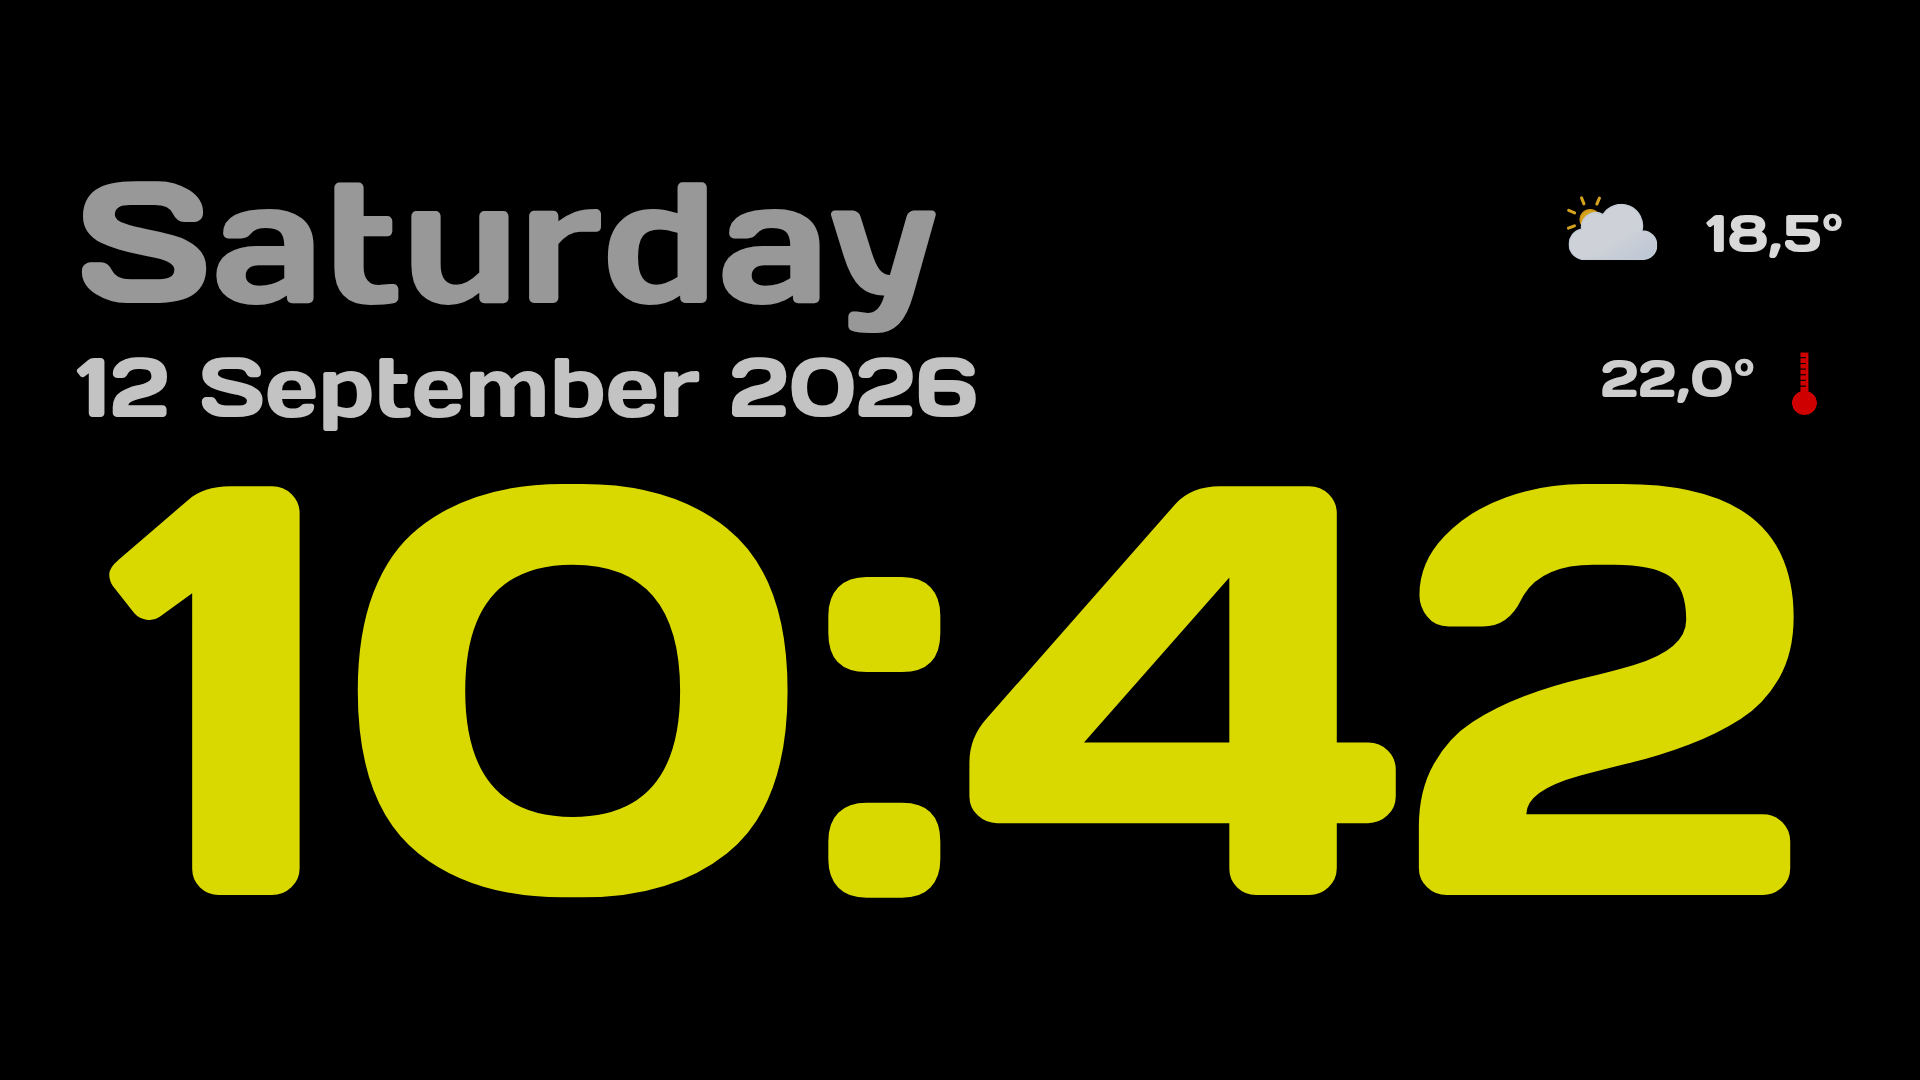
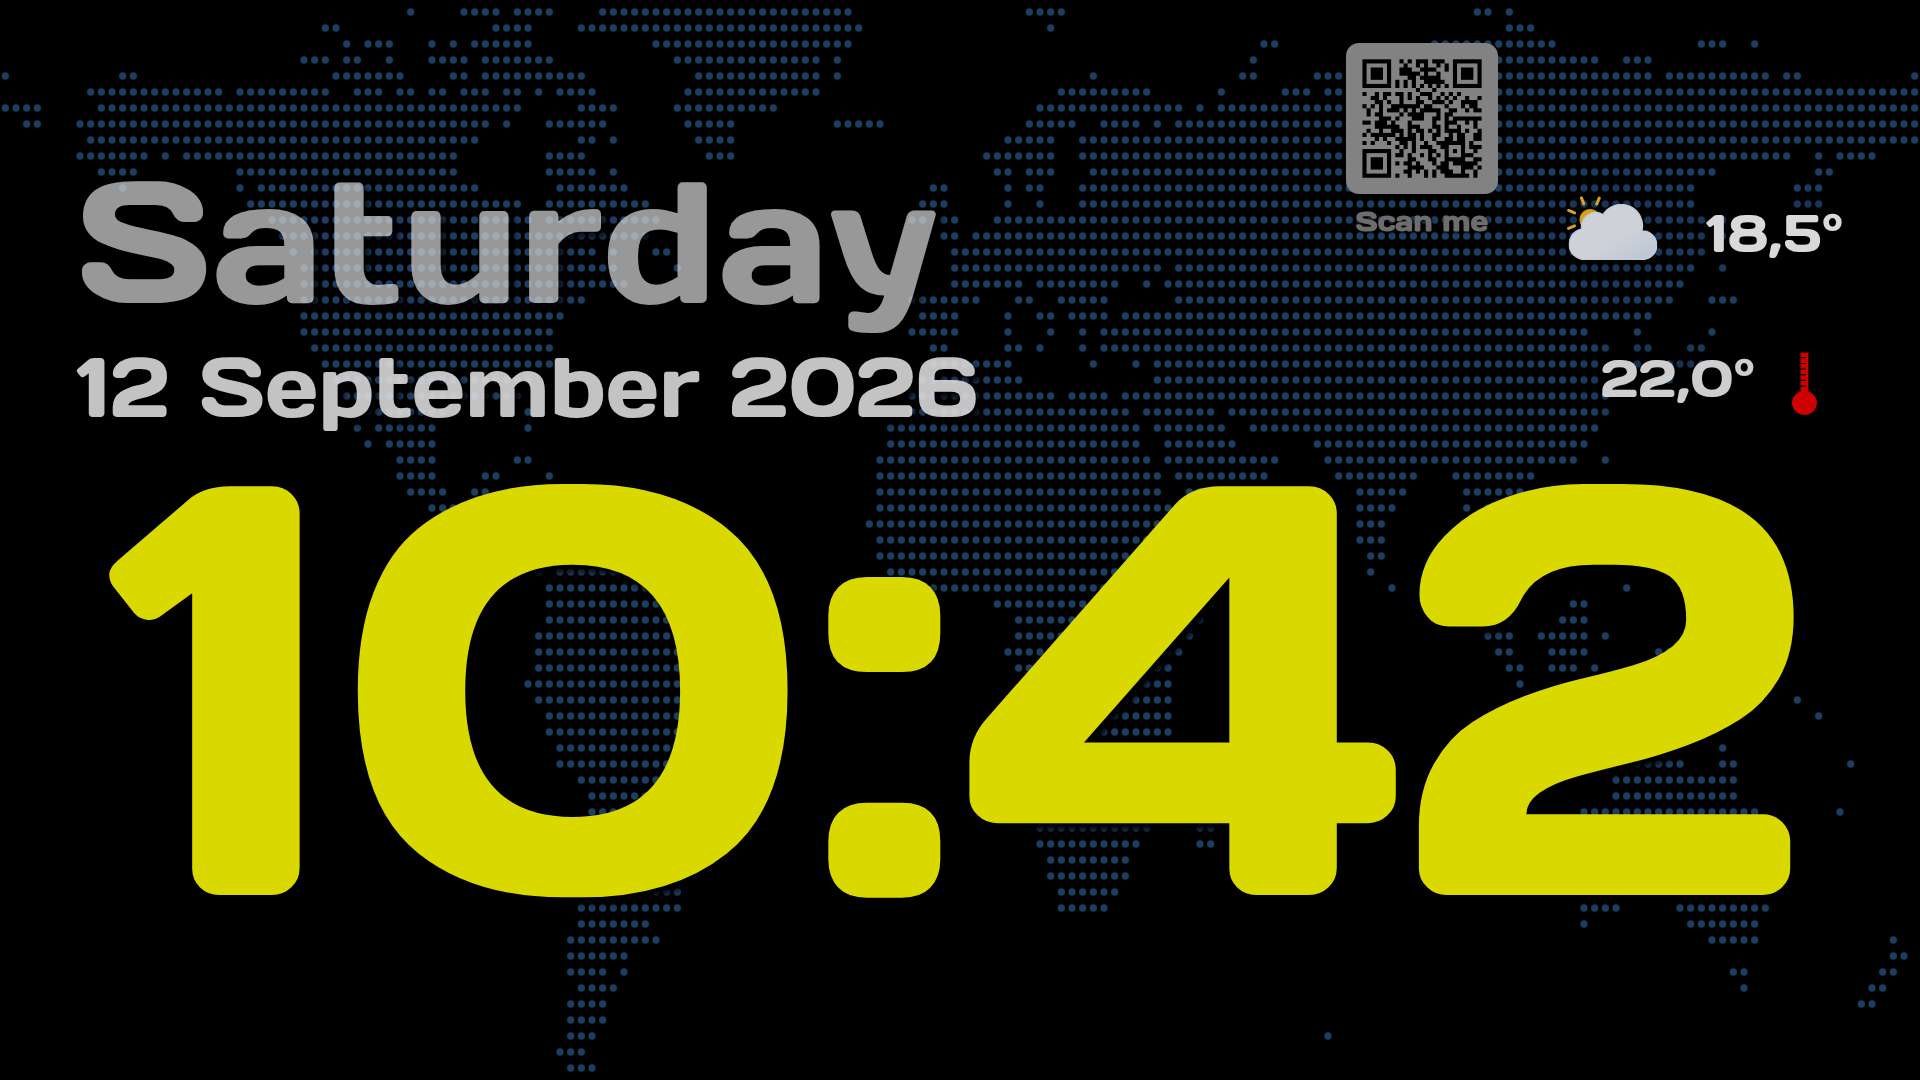
Mappa del mondo a puntini per l'orizzontale, QR di esempio, README e note 1.0.0

diff --git a/tablet-orologio-card.js b/tablet-orologio-card.js
@@ -20,6 +20,8 @@ const DEFAULTS = {
   shift_minutes: 4,   // ogni quanti minuti sposta
   google_font: true,  // carica 'Days One' da Google Fonts se non e' gia' presente (false = nessuna richiesta esterna)
   fullscreen: true,   // copre intestazione e barra laterale di HA
+  background_horizontal: '/local/tablet-orologio/world-dots.svg', // solo orientation horizontal: immagine di sfondo (mappa del mondo); 'none' = usa `background`
+  background_horizontal_opacity: 0.45,
   orientation: 'auto', // 'auto' (come prima: segue lo schermo) | 'vertical' | 'horizontal'
 };
 
@@ -39,6 +41,7 @@ const CSS = `
 .shift { position: absolute; inset: 0; display: grid; transition: transform 6s ease-in-out; will-change: transform;
   grid-template-rows: 1fr auto auto 1.5fr; grid-template-columns: 1fr 1fr; padding: 5cqh 6cqw 5cqh;
   grid-template-areas: "wx wx" "day day" "clock clock" "wifi room"; row-gap: 1cqh; }
+.bgh { position: absolute; inset: 0; pointer-events: none; background: center / cover no-repeat; }
 .dim { position: absolute; inset: 0; pointer-events: none; }
 .wx { grid-area: wx; display: flex; align-items: center; justify-content: center; gap: 4cqw; min-height: 0; }
 .wx img { height: min(28cqh, 56cqw); width: auto; aspect-ratio: 1; filter: drop-shadow(0 0 3cqmin rgba(0,0,0,.6)); }
@@ -73,7 +76,7 @@ const CSS = `
 .o-h .room { margin-top: 0; height: auto; justify-content: flex-end; align-self: center; gap: .6cqw; }
 .o-h .room .v { font-size: min(2.8cqw, 5.5cqh); } .o-h .room img { height: min(4cqw, 8cqh); }
 .o-h .clock { margin-top: 0; align-self: start; line-height: .85; }
-.o-h .wifi { position: absolute; right: 4cqw; bottom: 4cqh; margin-top: 0; }
+.o-h .wifi { position: absolute; right: 22cqw; top: 4cqh; margin-top: 0; }
 .o-h .wifi img { width: min(9cqw, 14cqh); }`;
 
 class TabletOrologioCard extends HTMLElement {
@@ -104,8 +107,10 @@ class TabletOrologioCard extends HTMLElement {
       l.id = 'tablet-orologio-days-one'; l.rel = 'stylesheet'; l.href = 'https://fonts.googleapis.com/css2?family=Days+One&display=swap';
       document.head.appendChild(l);
     }
+    const useMap = c.orientation === 'horizontal' && c.background_horizontal && c.background_horizontal !== 'none';
     this.shadowRoot.innerHTML = `<style>${CSS}</style>
-      <div class="root ${c.fullscreen ? 'fs' : ''} ${c.orientation === 'horizontal' ? 'o-h' : c.orientation === 'vertical' ? 'o-v' : 'o-auto'}" style="${c.background ? `background-image:url('${esc(c.background)}')` : 'background:#000'}">
+      <div class="root ${c.fullscreen ? 'fs' : ''} ${c.orientation === 'horizontal' ? 'o-h' : c.orientation === 'vertical' ? 'o-v' : 'o-auto'}" style="${c.background && !useMap ? `background-image:url('${esc(c.background)}')` : 'background:#000'}">
+        ${useMap ? `<div class="bgh" style="background-image:url('${esc(c.background_horizontal)}'); opacity:${Number(c.background_horizontal_opacity)}"></div>` : ''}
         <div class="shift">
           <div class="wx"><img id="wi" alt=""><div class="out" id="out"></div></div>
           <div class="day"><div class="wd" id="wd"></div><div class="dt" id="dt"></div></div>

diff --git a/README.md b/README.md
@@ -10,6 +10,12 @@ Orologio a schermo intero per tablet a muro (Fully Kiosk Browser o qualsiasi bro
 |---|---|
 | ![Verticale](docs/images/vertical.png) | ![Orizzontale](docs/images/horizontal.png) |
 
+Orizzontale con sfondo nero (`background_horizontal: none`):
+
+![Orizzontale nero](docs/images/horizontal-black.png)
+
+Nelle immagini il QR di esempio apre questo repository.
+
 ## Caratteristiche
 
 - **A schermo intero**: copre intestazione e barra laterale di Home Assistant (`fullscreen: true`).
@@ -30,6 +36,31 @@ Orologio a schermo intero per tablet a muro (Fully Kiosk Browser o qualsiasi bro
 ### Font Days One
 
 La card usa il font **Days One** (licenza SIL Open Font License 1.1, uso e ridistribuzione liberi). Per default viene caricato da Google Fonts alla prima apertura (`google_font: true`). Se non vuoi richieste esterne metti `google_font: false` e installa il font nel tuo tema o come risorsa; senza il font la card usa un carattere di ripiego.
+
+### Sfondo mappa del mondo (orizzontale)
+
+In orizzontale la card mostra per default una mappa del mondo a puntini blu, come nella versione classica. Copia [`assets/world-dots.svg`](assets/world-dots.svg) in `/config/www/tablet-orologio/world-dots.svg` (il percorso predefinito e' `/local/tablet-orologio/world-dots.svg`; se il file manca lo sfondo resta nero). La mappa e' generata da dati geografici liberi, senza copyright.
+
+```yaml
+type: custom:tablet-orologio-card
+orientation: horizontal
+background_horizontal: /local/miosfondi/mappa.png   # un'altra immagine
+background_horizontal_opacity: 0.35                   # quanto e' visibile (0-1)
+```
+
+Con `background_horizontal: none` si usa l'opzione `background` (o nero). Il verticale e `auto` non usano `background_horizontal`.
+
+### QR code (Wi-Fi ospiti, link, contatto)
+
+La card puo' mostrare un'immagine QR a scelta con una didascalia. Gli screenshot usano un QR di esempio che apre questo repository ([`docs/images/qr-demo.png`](docs/images/qr-demo.png)). Per usare il tuo carica un'immagine in `/config/www/` e indicala:
+
+```yaml
+type: custom:tablet-orologio-card
+wifi_image: /local/wifi/wifi_ospiti.png
+wifi_label: Wi-Fi ospiti
+```
+
+Il QR puo' contenere qualsiasi cosa: per la Wi-Fi ospiti di casa il testo da codificare ha il formato `WIFI:T:WPA;S:NomeRete;P:password;;` (poi lo trasformi in immagine con un generatore QR, per esempio il pacchetto Python `qrcode`: `qrcode.make("WIFI:T:WPA;S:NomeRete;P:password;;").save("wifi_ospiti.png")`). Funziona anche con un link o una scheda contatto (vCard). Non pubblicare online il QR con la tua password.
 
 ### Icone meteo
 
@@ -81,8 +112,10 @@ orientation: horizontal   # giorno e data in alto a sinistra, temperature a dest
 | `weather` | string | vuoto | Entita' `weather.*` per l'icona |
 | `weather_icons` | string | `/local/weather_icons/` | Cartella delle icone `<stato>.svg` |
 | `background` | string | vuoto | Immagine di sfondo (altrimenti nero) |
+| `background_horizontal` | string | `/local/tablet-orologio/world-dots.svg` | Solo `orientation: horizontal`: immagine di sfondo (mappa del mondo). `none` = usa `background` |
+| `background_horizontal_opacity` | number | `0.45` | Visibilita' dell'immagine di sfondo orizzontale |
 | `thermometer` | string | vuoto | Icona accanto alla temperatura interna |
-| `wifi_image` | string | vuoto | Immagine del QR Wi-Fi ospite |
+| `wifi_image` | string | vuoto | Immagine QR (Wi-Fi ospiti, link, contatto) |
 | `wifi_label` | string | vuoto | Testo sotto il QR |
 | `dim` | number | `0.85` | Luminosita' complessiva (1 = piena) |
 | `shift_px` | number | `14` | Ampiezza dello spostamento anti burn-in |
@@ -113,6 +146,7 @@ Vedi [CHANGELOG.md](CHANGELOG.md).
 - **Install**: HACS > Custom repositories > `https://github.com/Simonz82/big_clock` (type *Dashboard*), or copy `tablet-orologio-card.js` to `/config/www/` and add `/local/tablet-orologio-card.js` as a JavaScript module.
 - **Font**: Days One (SIL OFL 1.1), loaded from Google Fonts unless `google_font: false`.
 - **Weather icons**: SVGs named after the weather state, see `classic/www/weather_icons/`.
+- **Background**: in horizontal mode a dotted world map (`background_horizontal`, default `/local/tablet-orologio/world-dots.svg`, copy `assets/world-dots.svg` there; `none` to disable). **QR**: put any QR image in `wifi_image` (guest Wi-Fi `WIFI:T:WPA;S:name;P:password;;`, a link, a contact).
 - Options are listed in the table above. Weekday and date fall back to the Home Assistant language.
 - The original YAML version is kept in [`classic/`](classic).
 

diff --git a/CHANGELOG.md b/CHANGELOG.md
@@ -5,4 +5,6 @@
 - `orientation: auto | vertical | horizontal` (default `auto`).
 - Anti burn-in shift, dimming, weather icon, outdoor/indoor temperature, optional guest Wi-Fi QR.
 - Weekday and date fall back to the Home Assistant language; Days One loaded from Google Fonts (`google_font`).
+- `background_horizontal` / `background_horizontal_opacity`: dotted world map as default background in horizontal mode (`assets/world-dots.svg`), `none` to disable. Vertical and `auto` unchanged.
+- Demo QR image in the screenshots (opens this repository).
 - The original YAML card moved to `classic/` (unchanged).

diff --git a/docs/release_notes_1.0.0.md b/docs/release_notes_1.0.0.md
@@ -6,4 +6,5 @@ First release of the JS card, installable with HACS.
 - Big time scaled to the full width, weekday, date, weather icon, outdoor and indoor temperature, optional guest Wi-Fi QR.
 - Anti burn-in shifting and dimming.
 - Days One font from Google Fonts (disable with `google_font: false`).
+- Horizontal mode: dotted world map background (`background_horizontal`, optional file `assets/world-dots.svg`).
 - The original YAML version is kept in `classic/`.
